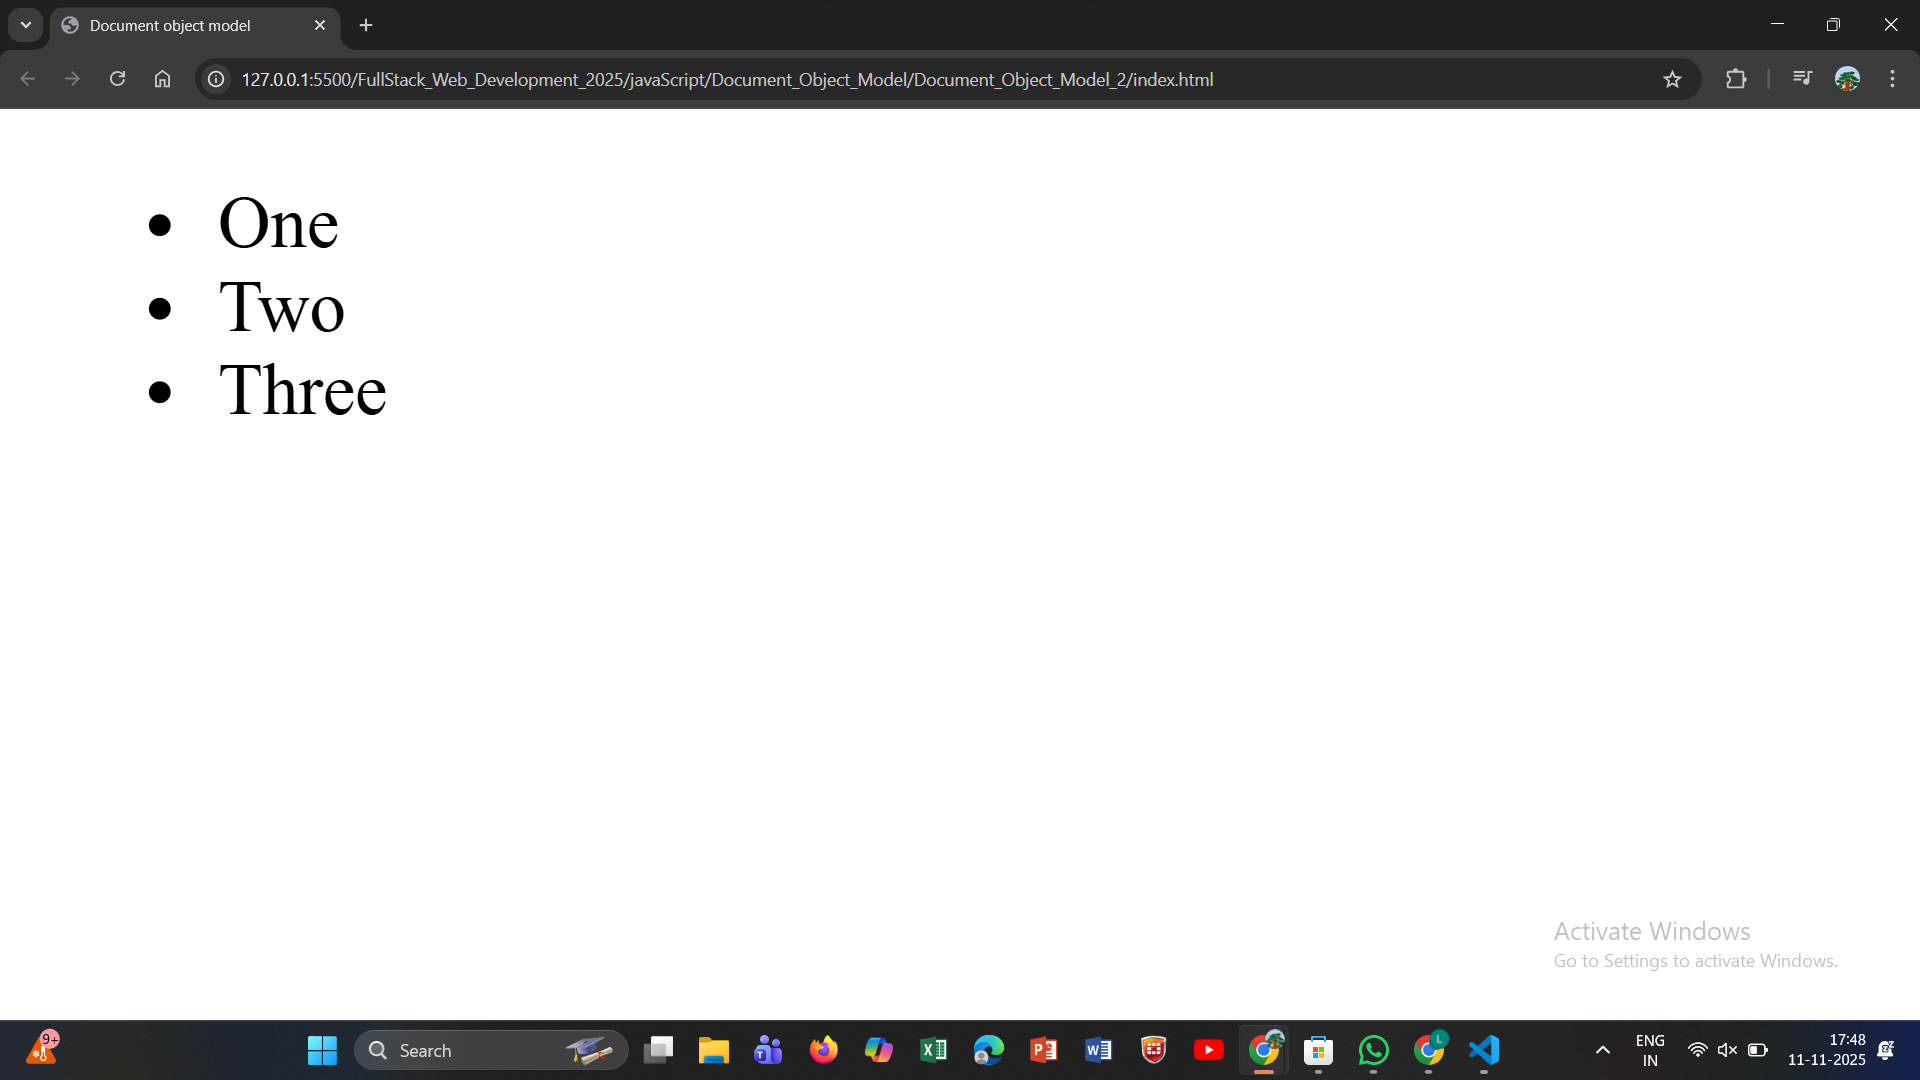
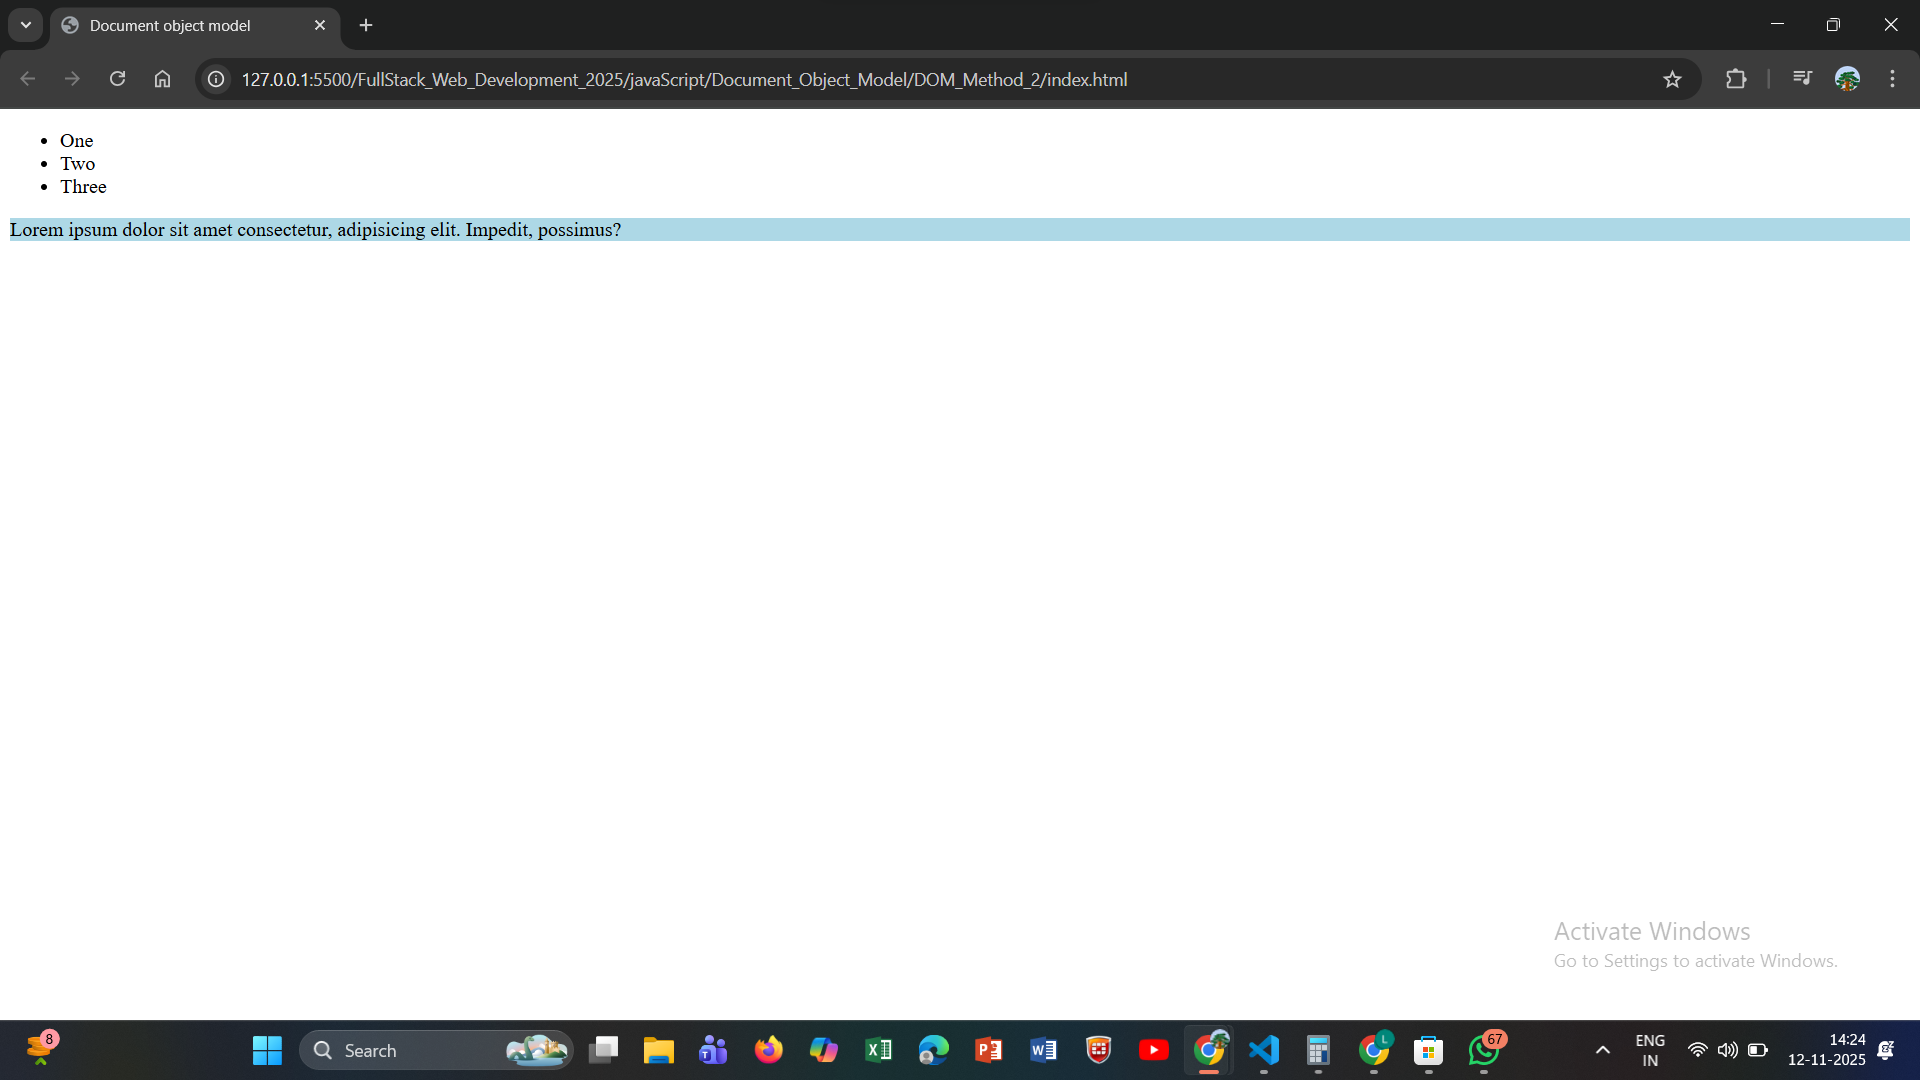
add new element

diff --git a/javaScript/Document_Object_Model/DOM_Method_2/script.js b/javaScript/Document_Object_Model/DOM_Method_2/script.js
@@ -1,4 +1,9 @@
 let ul=document.getElementById("myList");
 let newli=document.createElement("li");
 newli.textContent="Three";
-ul.appendChild(newli);
+ul.appendChild(newli);  // Append the new li to the ul
+
+let newDiv=document.createElement("div");
+newDiv.textContent="Lorem ipsum dolor sit amet consectetur, adipisicing elit. Impedit, possimus?"
+document.body.appendChild(newDiv) // Append the new div to the body
+newDiv.style.backgroundColor="lightblue";
